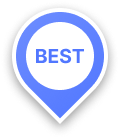
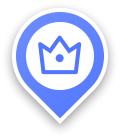
베스트 테마 마커 변경, 세계일 때 구글 장소검색으로 명칭 변경, 장소 폰트 사이즈 수정 등

Changed region(s): [[0.3, 0.2571, 0.7, 0.5429]]

diff --git a/pc/css/map.css b/pc/css/map.css
@@ -346,12 +346,13 @@ fieldset .inp-sm {flex: none; width: 74px !important;}
 .search-vr-list > li:first-child::before {display: none;}
 .search-vr-list > li [class ^="place-item"] {padding: 16px 24px;}
 .search-vr-list > li [class ^="place-item"] .item-list {margin: 0 0 0 70px;}
+.search-vr-list > li [class ^="place-item"] .item .item-info .text {font-size: 13px; line-height: 18px;}
 
 [class ^="place-item"] .item {display: flex; justify-content: space-between; gap: 8px}
 [class ^="place-item"] .item [class ^="name-info"] {display: flex; flex: 1; min-width: 0;}
 [class ^="place-item"] .item [class ^="name-info"] .icon {flex-shrink: 0; width: 24px; height: 24px; margin-right: 6px;}
 [class ^="place-item"] .item [class ^="name-info"] .title {align-self: center; display: block; width: 100%; min-width: 0; font-size: 16px; font-weight: 600; line-height: 24px; text-overflow: ellipsis; white-space: nowrap; overflow: hidden;}
-[class ^="place-item"] .item [class ^="name-info"] .google {display: inline-flex; align-items: center; position: relative; margin-left: 8px; font-size: 13px; font-weight: 400; color: #5A5C63;}
+[class ^="place-item"] .item [class ^="name-info"] .google {display: inline-flex; flex-shrink: 0; align-items: center; gap: 2px; position: relative; margin-left: 8px; font-size: 13px; font-weight: 400; color: #5A5C63;}
 [class ^="place-item"] .item [class ^="name-info"] .google::after {content: ""; display: inline-block; width: 12px; height: 12px; background: url("/assets/images/map/icon-arrow-right-sm.svg") no-repeat center;}
 [class ^="place-item"] .item .item-info {display: flex; gap: 8px; width: 100%;}
 [class ^="place-item"] .item .item-info .thumb {display: block; position: relative; overflow: hidden; width: 62px; height: 46px; border-radius: 4px; border: 1px solid #F1F1F5;}
@@ -370,7 +371,7 @@ fieldset .inp-sm {flex: none; width: 74px !important;}
 [class ^="place-item"] .item-list li .icon {flex-shrink: 0; width: 24px; height: 24px; margin-right: 4px;}
 [class ^="place-item"] .item-list li .text {display: -webkit-box; -webkit-line-clamp: 2; -webkit-box-orient: vertical; text-overflow: ellipsis; overflow: hidden;}
 [class ^="place-item"] .item-list li .icon ~ .text {align-self: center;}
-[class ^="place-item"] .address {font-size: 12px; font-weight: 400; line-height: 18px; color: #5A5C63;}
+[class ^="place-item"] .address {margin-top: 2px; font-size: 13px; font-weight: 400; line-height: 18px; color: #5A5C63;}
 [class ^="place-item"] .address a {display: block;}
 
 /* 추천검색어 */
@@ -384,7 +385,8 @@ fieldset .inp-sm {flex: none; width: 74px !important;}
 .chapter-box .title {flex-shrink: 0; display: block; margin-right: 18px; font-size: 14px; font-weight: 500; line-height: 20px; color: #000;}
 .chapter-box .forms {flex: 1;}
 .chapter-box .forms fieldset {flex-wrap: nowrap; gap: 6px;}
-.chapter-box .forms select.level + .select2-container {max-width: 150px; width: 100% !important;}
+.chapter-box .forms select.level + .select2-container {max-width: 126px; width: 100% !important;}
+.chapter-box #btnConnSbj {min-width: 89px;}
 
 /* 주제별 자료실 */
 .library-box {z-index: 1; display: none; position: absolute; left: 364px; top: 80px; padding: 15px; background-color: #F7F7FB; border: 1px solid var(--color-tertiary); border-radius: 8px; font-size: 14px; line-height: 20px; font-weight: 500; color: #000;}
@@ -401,7 +403,7 @@ fieldset .inp-sm {flex: none; width: 74px !important;}
 .best-theme .btn-best-theme {display: inline-flex; align-items: center; gap: 2px; position: absolute; left: 50%; top: -36px; transform: translateX(-50%); padding: 8px 24px; background-color: var(--button-secondary); border-radius: 4px 4px 0 0; font-size: 14px; font-weight: 600; line-height: 20px; color: #fff;}
 .best-theme .btn-best-theme:hover, .best-theme .btn-best-theme:focus {background-color: var(--button-secondary-hover);}
 .best-theme .btn-best-theme::after {content: ""; display: block; width: 16px; height: 16px; background: url("/assets/images/map/icon-arrow-bottom.svg") no-repeat center; transition: transform 0.5s;}
-.theme-box {padding: 23px; background-color: rgba(255,255, 255, 0.8); border: 1px solid #19244D; border-radius: 12px;}
+.theme-box {padding: 23px; background-color: rgba(255,255, 255, 0.8); border: 1px solid var(--color-tertiary); border-radius: 12px;}
 .theme-box .title {display: block; margin-bottom: 16px; padding: 4px 0; font-size: 16px; font-weight: 500; line-height: 24px;}
 .theme-box .txt-exp01 {display: inline-block; margin-top: 16px;}
 .best-theme-slider {position: relative; max-width: 1128px;}

diff --git a/js/ui.map.js b/js/ui.map.js
@@ -412,29 +412,6 @@ const searchAaccordion = function(){
 	});
 }
 
-/* 지도 페이지 : 검색 영역 열기/닫기(모션) */
-/*
-const searchAaccordion = function(){
-	$(".pane-wrap .pane .btn-action").on("click", function (e) {
-		e.preventDefault();
-		const $pane = $(this).closest(".pane");
-		var $targetHeight = $(".tab").outerHeight() + $pane.find(".search-area").outerHeight();
-		var $resultBoxHeight = $pane.find(".result-box .inner").outerHeight();
-
-		if (!$(this).hasClass("active")) {
-			$(this).addClass("active");
-			$(".search-tabs").animate({ marginTop :-$targetHeight });
-			$(".result-box").animate({ height : $resultBoxHeight });
-		} else {
-			$pane.find(".btn-action").removeClass("active");
-			$(".search-tabs").animate({ marginTop : 0 });
-			$(this).removeClass("active");
-			$(".result-box").animate({ height : 0 });
-		}
-	});
-}
-*/
-
 /* 지도 페이지 : 체크박스 드롭다운 */
 const checkboxDropdown = function(el){
 	var $el = $(el);
@@ -479,62 +456,4 @@ const bestTheme = function(_target, _type, _time){ // _target : 클릭할 버튼
 			_target.parent().addClass("active");
 		}
 	});
-}
-
-//레이어 닫기
-const layerClose = function(_target, _type){
-	_target = $(_target);
-	if(_type == "remove"){
-		_target.remove();
-	} else {
-		_target.hide();
-	}
-}
-
-//map control 버튼 활성화 관련
-const mapCont = function(_target){
-	_target = $(_target);
-	multi_active = ["btn-satellite","btn-panorama","btn-distance"]; //active 클래스가 유지되어야 하는 버튼 클래스 배열
-	exc_active = ["btn-print"]; //active 적용안되어야 될 버튼 클래스 배열
-
-	_target.find("> button").click(function(){
-
-		// 버튼의 모든 클래스 가져오기
-		const buttonClasses = $(this).attr("class").split(" ");
-
-		// "active" 클래스를 제외한 클래스들만 필터링
-		const filteredClasses = buttonClasses.filter(cls => cls !== "active");
-
-		// 필터링된 클래스들이 multi_active 배열에 포함되는지 확인
-		let isMatch = filteredClasses.every(cls => multi_active.includes(cls));
-		let isExc = filteredClasses.every(cls => exc_active.includes(cls));
-
-		// 결과 출력
-		if (isMatch) {
-			if($(this).hasClass("active")){
-				$(this).removeClass("active");
-			} else {
-				$(this).addClass("active");
-			}
-		} else {
-			if($(this).hasClass("active")){
-				$(this).removeClass("active");
-			} else {
-				$(this).closest(_target).find("button").removeClass("active");
-				$(this).addClass("active");
-			}
-		}
-
-		if(isExc) {
-			$(this).removeClass("active");
-		}
-
-	});
-}
-
-//active 활성화
-const layerActive = function(_target){
-	_target = $(_target);
-
-	_target.show();
 }

diff --git a/pc/html/map/SB_map_360vr_002.html b/pc/html/map/SB_map_360vr_002.html
@@ -583,23 +583,32 @@
 																		</li>
 																	</ul>
 																	<!-- //리스트 -->
-	
-																	<!-- 더보기 영역 -->
-																	<div class="btn-area">
-																		<!-- 더보기 버튼 -->
-																		<button type="button" class="btn-more">
-																			<span>더보기</span>
-																			<svg>
-																				<title>더보기</title>
-																				<use xlink:href="/assets/images/map/sprite-icon.svg#icon-arrow-bottom"></use>
-																			</svg>
-																		</button>
-																		<!-- //더보기 버튼 -->
-																	</div>
-																	<!-- //더보기 영역 -->
 																</div>
 															</div>
 														</div>
+
+														<!-- 이전/다음 영역 -->
+														<!-- D: 기준 개수 미만인 경우 이전/다음 영역 미노출 -->
+														<div class="bottom-fixed">
+															<div class="buttons">
+																<button type="button" class="btn-prev" disabled><!-- D: 비활성화 시 disabled 추가 -->
+																	<svg>
+																		<title>이전</title>
+																		<use xlink:href="/assets/images/map/sprite-icon.svg#icon-chevron-left"></use>
+																	</svg>
+																	<span>이전</span>
+																</button>
+																<button type="button" class="btn-next">																	
+																	<span>다음</span>
+																	<svg>
+																		<title>다음</title>
+																		<use xlink:href="/assets/images/map/sprite-icon.svg#icon-chevron-right"></use>
+																	</svg>
+																</button>
+															</div>
+														</div>
+														<!-- //이전/다음 영역 -->
+
 														<!-- top버튼 -->
 														<a href="javascript:;" class="btn-top" title="위로 이동">
 															<svg>

diff --git a/pc/html/map/SB_map_domestic_001.html b/pc/html/map/SB_map_domestic_001.html
@@ -1128,7 +1128,7 @@
 																				<div class="item">
 																					<a href="#" class="name-info">
 																						<strong class="title">구로디지털단지</strong>
-																						<span class="google">구글검색</span>
+																						<span class="google">구글 장소검색</span>
 																					</a>
 																				</div>
 																			</div>

diff --git a/pc/html/map/SB_map_share_004.html b/pc/html/map/SB_map_share_004.html
@@ -1083,7 +1083,7 @@
 																				<div class="item">
 																					<a href="#" class="name-info">
 																						<strong class="title">구로디지털단지</strong>
-																						<span class="google">구글검색</span>
+																						<span class="google">구글 장소검색</span>
 																					</a>
 																				</div>
 																			</div>

diff --git a/pc/html/map/SB_map_world_001.html b/pc/html/map/SB_map_world_001.html
@@ -1127,7 +1127,7 @@
 																				<div class="item">
 																					<a href="#" class="name-info">
 																						<strong class="title">중국</strong>
-																						<span class="google">구글검색</span>
+																						<span class="google">구글 장소검색</span>
 																					</a>
 																				</div>
 																			</div>
